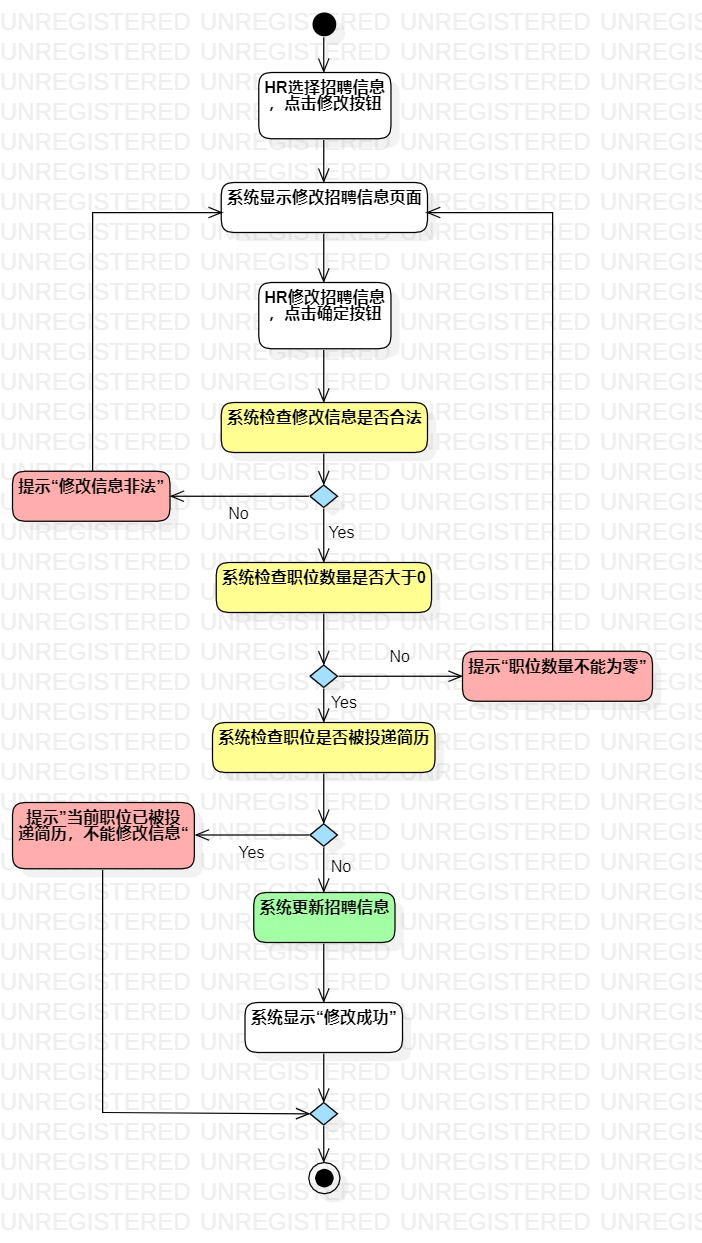
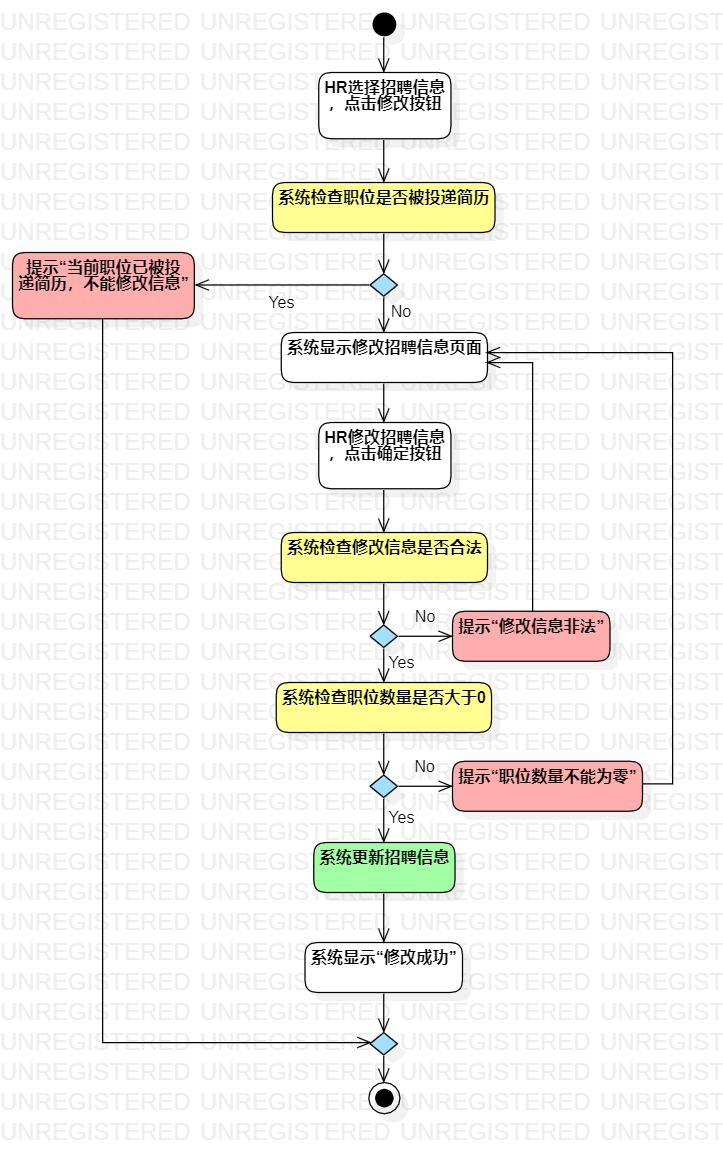
#2 #3 #4 #5 实验四&五：类建模 | 修改实验二、三

diff --git a/students/1714080901106/lab4&5.md b/students/1714080901106/lab4&5.md
@@ -1,0 +1,44 @@
+# 实验四：类建模 & 实验五：高级类建模
+
+## 一、实验目标
+
+1. 掌握类建模方法；
+2. 了解MVC或你熟悉的设计模式；
+3. 掌握类图的画法；
+4. 理解类的5种关系；
+5. 掌握类之间关系的画法。
+
+## 二、实验内容
+
+1. 基于MVC模式设计类；
+2. 设计类的关系；
+3. 画出类图。
+
+## 三、实验步骤
+
+1. 先上网了解MVC模式
+2. 根据MVC模式和用例规约，确定各层包含哪些类
+   * Model层：发布、修改、删除的对象都是招聘信息，所以需要一个招聘信息类，同时对招聘信息的这些操作都需要HR来完成，所以还要一个HR账号类，同时招聘信息里面除了职位的信息，还应该包含HR的信息，所以招聘信息和HR账号之间是聚合的关系
+   * View层：发布和修改都需要进入单独的页面操作，同时操作完成后要回到显示所有已发布招聘信息的界面，删除只需要在该界面上操作就行
+   * Controller层：三种功能对应三个不同的控制器，用于控制Model层和View层之间的交互
+3. 在StarUML中制作三个类图
+
+## 四、实验结果
+
+![PostClassDiagram](./Lab4&5_PostClassDiagram.jpg)
+图1：发布招聘信息类图
+
+![ModifyClassDiagram](./Lab4&5_ModifyClassDiagram.jpg)
+图1：修改招聘信息类图
+
+![DeleteClassDiagram](./Lab4&5_DeleteClassDiagram.jpg)
+图1：删除招聘信息类图
+
+## 五、实验总结
+
+1. MVC模式：
+    * Model层：表示数据和业务规则
+    * View层：与用户交互的界面
+    * Controller层：负责Model和View层之间的通信
+2. 类中共有5中关系：依赖、关联、聚合、组合、继承，在设计的过程中应该尽量降低类与类之间的关系，使程序具有良好的可重用性和可维护性
+3. 在确定Model层的时候，先确定操作的主体，然后再思考操作该主体时还需要用到哪些类

diff --git a/students/1714080901106/lab2.md b/students/1714080901106/lab2.md
@@ -52,13 +52,13 @@
 前置条件  | HR登录进入招聘管理系统     |    
 后置条件  |      |   
 基本流程  | 1. HR选择招聘信息，点击修改按钮  |    
-~| 2. 系统显示修改招聘信息页面  |   
+~| 2. 系统检查当前职位未被投递简历，显示修改招聘信息页面  |   
 ~| 3. HR修改招聘信息，点击确定按钮  |   
-~| 4. 系统检查修改信息合法，职位数量大于0，职位未被投递简历，更新招聘信息  |   
+~| 4. 系统检查修改信息合法，职位数量大于0，更新招聘信息  |   
 ~| 5. 系统显示“修改成功”  |  
-扩展流程  | 4.1 系统检查修改信息非法，提示“修改信息非法”  |
-~|4.2 系统检查职位数量为0，提示“职位数量不能为零”|
-~|4.3 系统检查职位已被投递简历，提示“当前职位已被投递简历，不能修改信息”|    
+扩展流程  | 2.1 系统检查职位已被投递简历，提示“当前职位已被投递简历，不能修改信息”  |
+~|4.1 系统检查修改信息非法，提示“修改信息非法” |
+~|4.2 系统检查职位数量为0，提示“职位数量不能为零” |    
 
 
  ## 表3：删除招聘信息用例规约  
